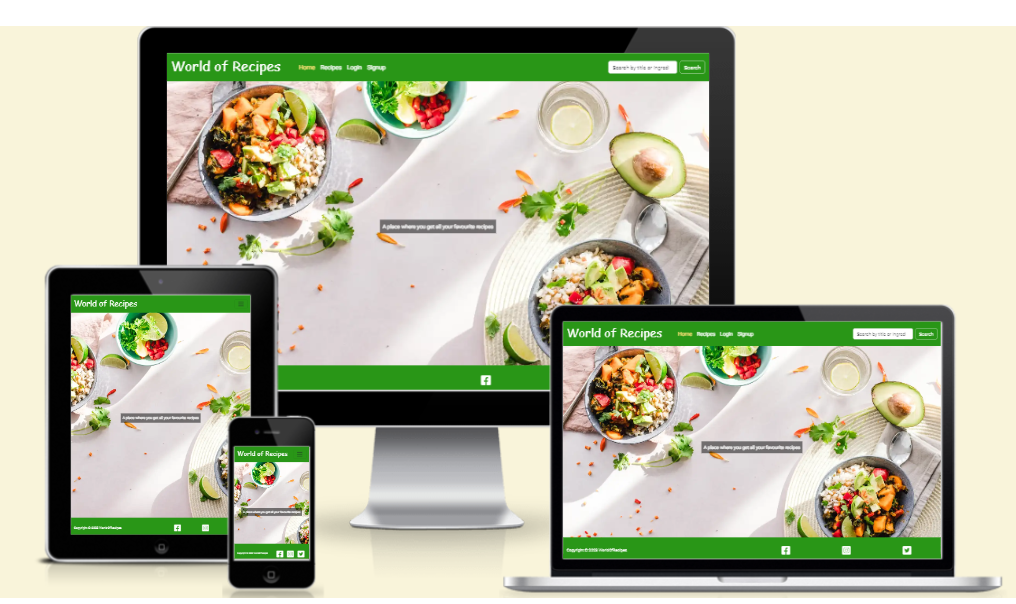
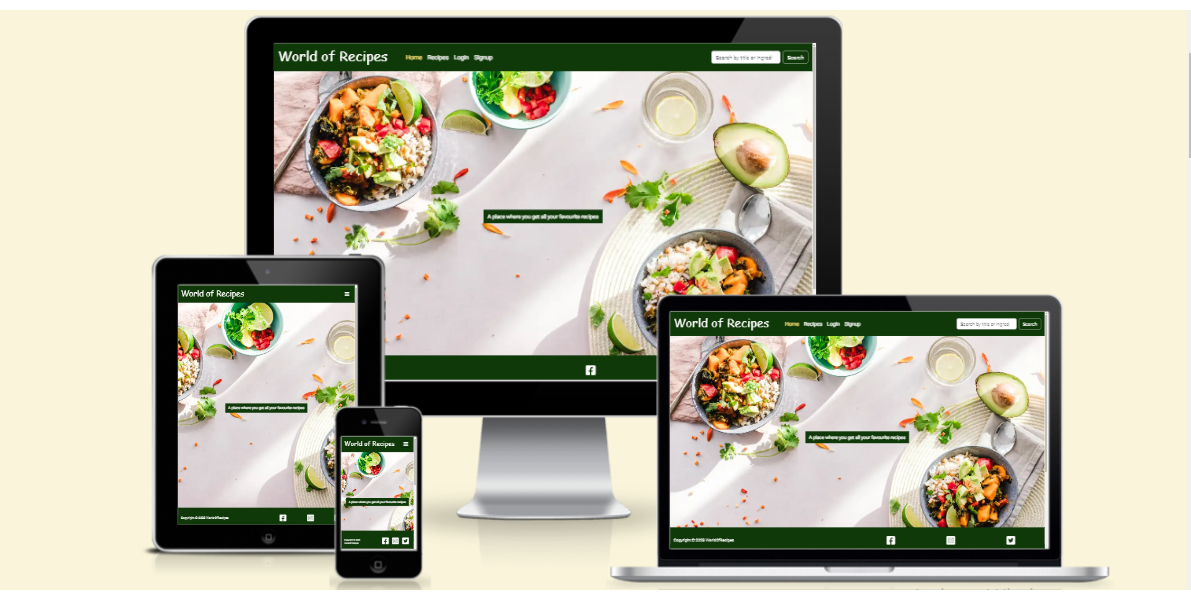
Added media query for screen of 375px max-width

diff --git a/templates/index.html b/templates/index.html
@@ -6,7 +6,7 @@
 <div class="masthead">
    <div class="container-fluid hero-img">
       <div class="cover-text"> 
-            <p class="fw-bold m-2 bg-text ps-3 pe-3">A place where you get all your favourite recipes</p>
+            <p class="fw-bold m-2 bg-text ps-1 pe-1">A place where you get all your favourite recipes</p>
       </div>
     </div>
 

diff --git a/static/css/style.css b/static/css/style.css
@@ -125,7 +125,12 @@ footer p{
     #msg {
         font-size: 85%;
     }
+}
 
+@media screen and (max-width: 375px) {
+    .bg-text {
+        font-size: 75%;
+    }
 }
 
 @media screen and (min-width: 320px) {
